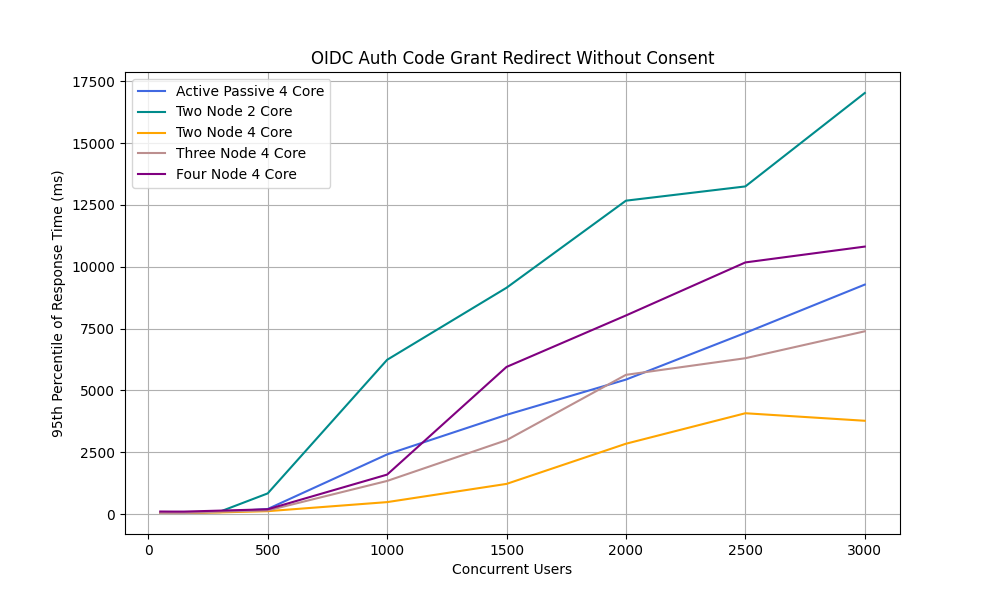
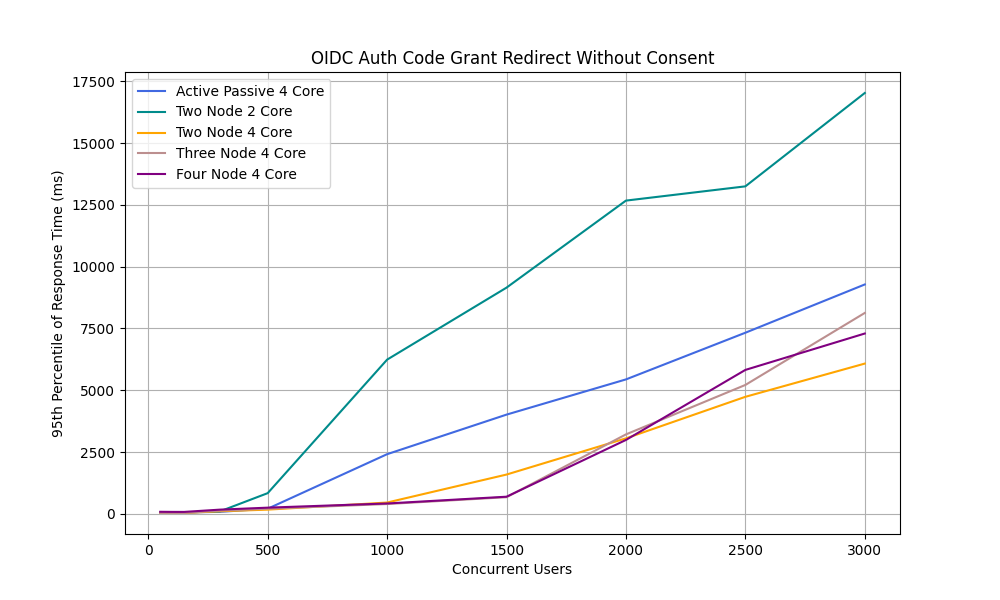
update numbers for authcode redirect without consent

diff --git a/benchmarks/6.1.0/performance_visualization_v2/summary-graph.md b/benchmarks/6.1.0/performance_visualization_v2/summary-graph.md
@@ -135,18 +135,19 @@ Note: Response time is calculated only for the user credentials submission reque
 
 Performance Comparison of Different Node Configurations with 95th Percentile of Response Time (ms)
 
-Concurrent Users | Active-Passive 4 Core | Two Node 2 Core | Two Node 4 Core | Three Node 4 Core | Four Node 4 Core
------------------|-----------------------|-----------------|-----------------|-------------------|------------------
-50               | 50                    | 51              | 47              | 49                | 107
-100              | 50                    | 55              | 47              | 47                | 104
-150              | 57                    | 59              | 48              | 47                | 104
-300              | 83                    | 102             | 71              | 101               | 143
-500              | 209                   | 839             | 121             | 149               | 197
-1000             | 2415                  | 6239            | 487             | 1343              | 1599
-1500             | 4015                  | 9151            | 1223            | 2991              | 5951
-2000             | 5439                  | 12671           | 2847            | 5631              | 8031
-2500             | 7327                  | 13247           | 4079            | 6303              | 10175
-3000             | 9279                  | 17023           | 3775            | 7391              | 10815
+| Concurrent Users | Active-Passive 4 Core | Two Node 2 Core | Two Node 4 Core | Three Node 4 Core | Four Node 4 Core |
+|------------------|-----------------------|-----------------|-----------------|-------------------|------------------|
+| 50               | 50                    | 51              | 37              | 40                | 85               |
+| 100              | 50                    | 55              | 36              | 39                | 81               |
+| 150              | 57                    | 59              | 38              | 39                | 80               |
+| 300              | 83                    | 102             | 106             | 133               | 172              |
+| 500              | 209                   | 839             | 172             | 209               | 252              |
+| 1000             | 2415                  | 6239            | 459             | 399               | 421              |
+| 1500             | 4015                  | 9151            | 1591            | 675               | 695              |
+| 2000             | 5439                  | 12671           | 3055            | 3215              | 2991             |
+| 2500             | 7327                  | 13247           | 4735            | 5215              | 5823             |
+| 3000             | 9279                  | 17023           | 6079            | 8127              | 7295             |
+
 
 
 <ins> Concurrency: 50 - 500 </ins>

diff --git a/benchmarks/6.1.0/performance_visualization_v2/6.1.0_four_node_4_core_jdk_11.md b/benchmarks/6.1.0/performance_visualization_v2/6.1.0_four_node_4_core_jdk_11.md
@@ -118,18 +118,19 @@ Note: Response time is calculated only for the user credentials submission reque
 
 Performance Comparison of Different Node Configurations with 95th Percentile of Response Time (ms)
 
-|  Concurrent Users | 95th Percentile of Response Time (ms) |
-|---|---:|
-|  50 | 107 |
-|  100 | 104 |
-|  150 | 104 |
-|  300 | 143 |
-|  500 | 197 |
-|  1000 | 1599 |
-|  1500 | 5951 |
-|  2000 | 8031 |
-|  2500 | 10175 |
-|  3000 | 10815 |
+| Concurrent Users | 95th Percentile of Response Time (ms) |
+|------------------|--------------------------------------:|
+| 50               | 85                                    |
+| 100              | 81                                    |
+| 150              | 80                                    |
+| 300              | 172                                   |
+| 500              | 252                                   |
+| 1000             | 421                                   |
+| 1500             | 695                                   |
+| 2000             | 2991                                  |
+| 2500             | 5823                                  |
+| 3000             | 7295                                  |
+
 
 
 ### 3.1. OIDC Auth Code Grant Redirect Without Consent Retrieving User Attributes, Groups and Roles

diff --git a/benchmarks/6.1.0/performance_visualization_v2/6.1.0_three_node_4_core_jdk_11.md b/benchmarks/6.1.0/performance_visualization_v2/6.1.0_three_node_4_core_jdk_11.md
@@ -118,18 +118,18 @@ Note: Response time is calculated only for the user credentials submission reque
 
 Performance Comparison of Different Node Configurations with 95th Percentile of Response Time (ms)
 
-|  Concurrent Users | 95th Percentile of Response Time (ms) |
-|---|---:|
-|  50 | 49 |
-|  100 | 47 |
-|  150 | 47 |
-|  300 | 101 |
-|  500 | 149 |
-|  1000 | 1343 |
-|  1500 | 2991 |
-|  2000 | 5631 |
-|  2500 | 6303 |
-|  3000 | 7391 |
+| Concurrent Users | 95th Percentile of Response Time (ms) |
+|------------------|--------------------------------------:|
+| 50               | 40                                    |
+| 100              | 39                                    |
+| 150              | 39                                    |
+| 300              | 133                                   |
+| 500              | 209                                   |
+| 1000             | 399                                   |
+| 1500             | 675                                   |
+| 2000             | 3215                                  |
+| 2500             | 5215                                  |
+| 3000             | 8127                                  |
 
 
 ### 3.1. OIDC Auth Code Grant Redirect Without Consent Retrieving User Attributes, Groups and Roles

diff --git a/benchmarks/6.1.0/performance_visualization_v2/6.1.0_two_node_4_core_jdk_11.md b/benchmarks/6.1.0/performance_visualization_v2/6.1.0_two_node_4_core_jdk_11.md
@@ -118,18 +118,19 @@ Note: Response time is calculated only for the user credentials submission reque
 
 Performance Comparison of Different Node Configurations with 95th Percentile of Response Time (ms)
 
-|  Concurrent Users | 95th Percentile of Response Time (ms) |
-|---|---:|
-|  50 | 47 |
-|  100 | 47 |
-|  150 | 48 |
-|  300 | 71 |
-|  500 | 121 |
-|  1000 | 487 |
-|  1500 | 1223 |
-|  2000 | 2847 |
-|  2500 | 4079 |
-|  3000 | 3775 |
+| Concurrent Users | 95th Percentile of Response Time (ms) |
+|------------------|--------------------------------------:|
+| 50               | 37                                    |
+| 100              | 36                                    |
+| 150              | 38                                    |
+| 300              | 106                                   |
+| 500              | 172                                   |
+| 1000             | 459                                   |
+| 1500             | 1591                                  |
+| 2000             | 3055                                  |
+| 2500             | 4735                                  |
+| 3000             | 6079                                  |
+
 
 
 ### 3.1. OIDC Auth Code Grant Redirect Without Consent Retrieving User Attributes, Groups and Roles
